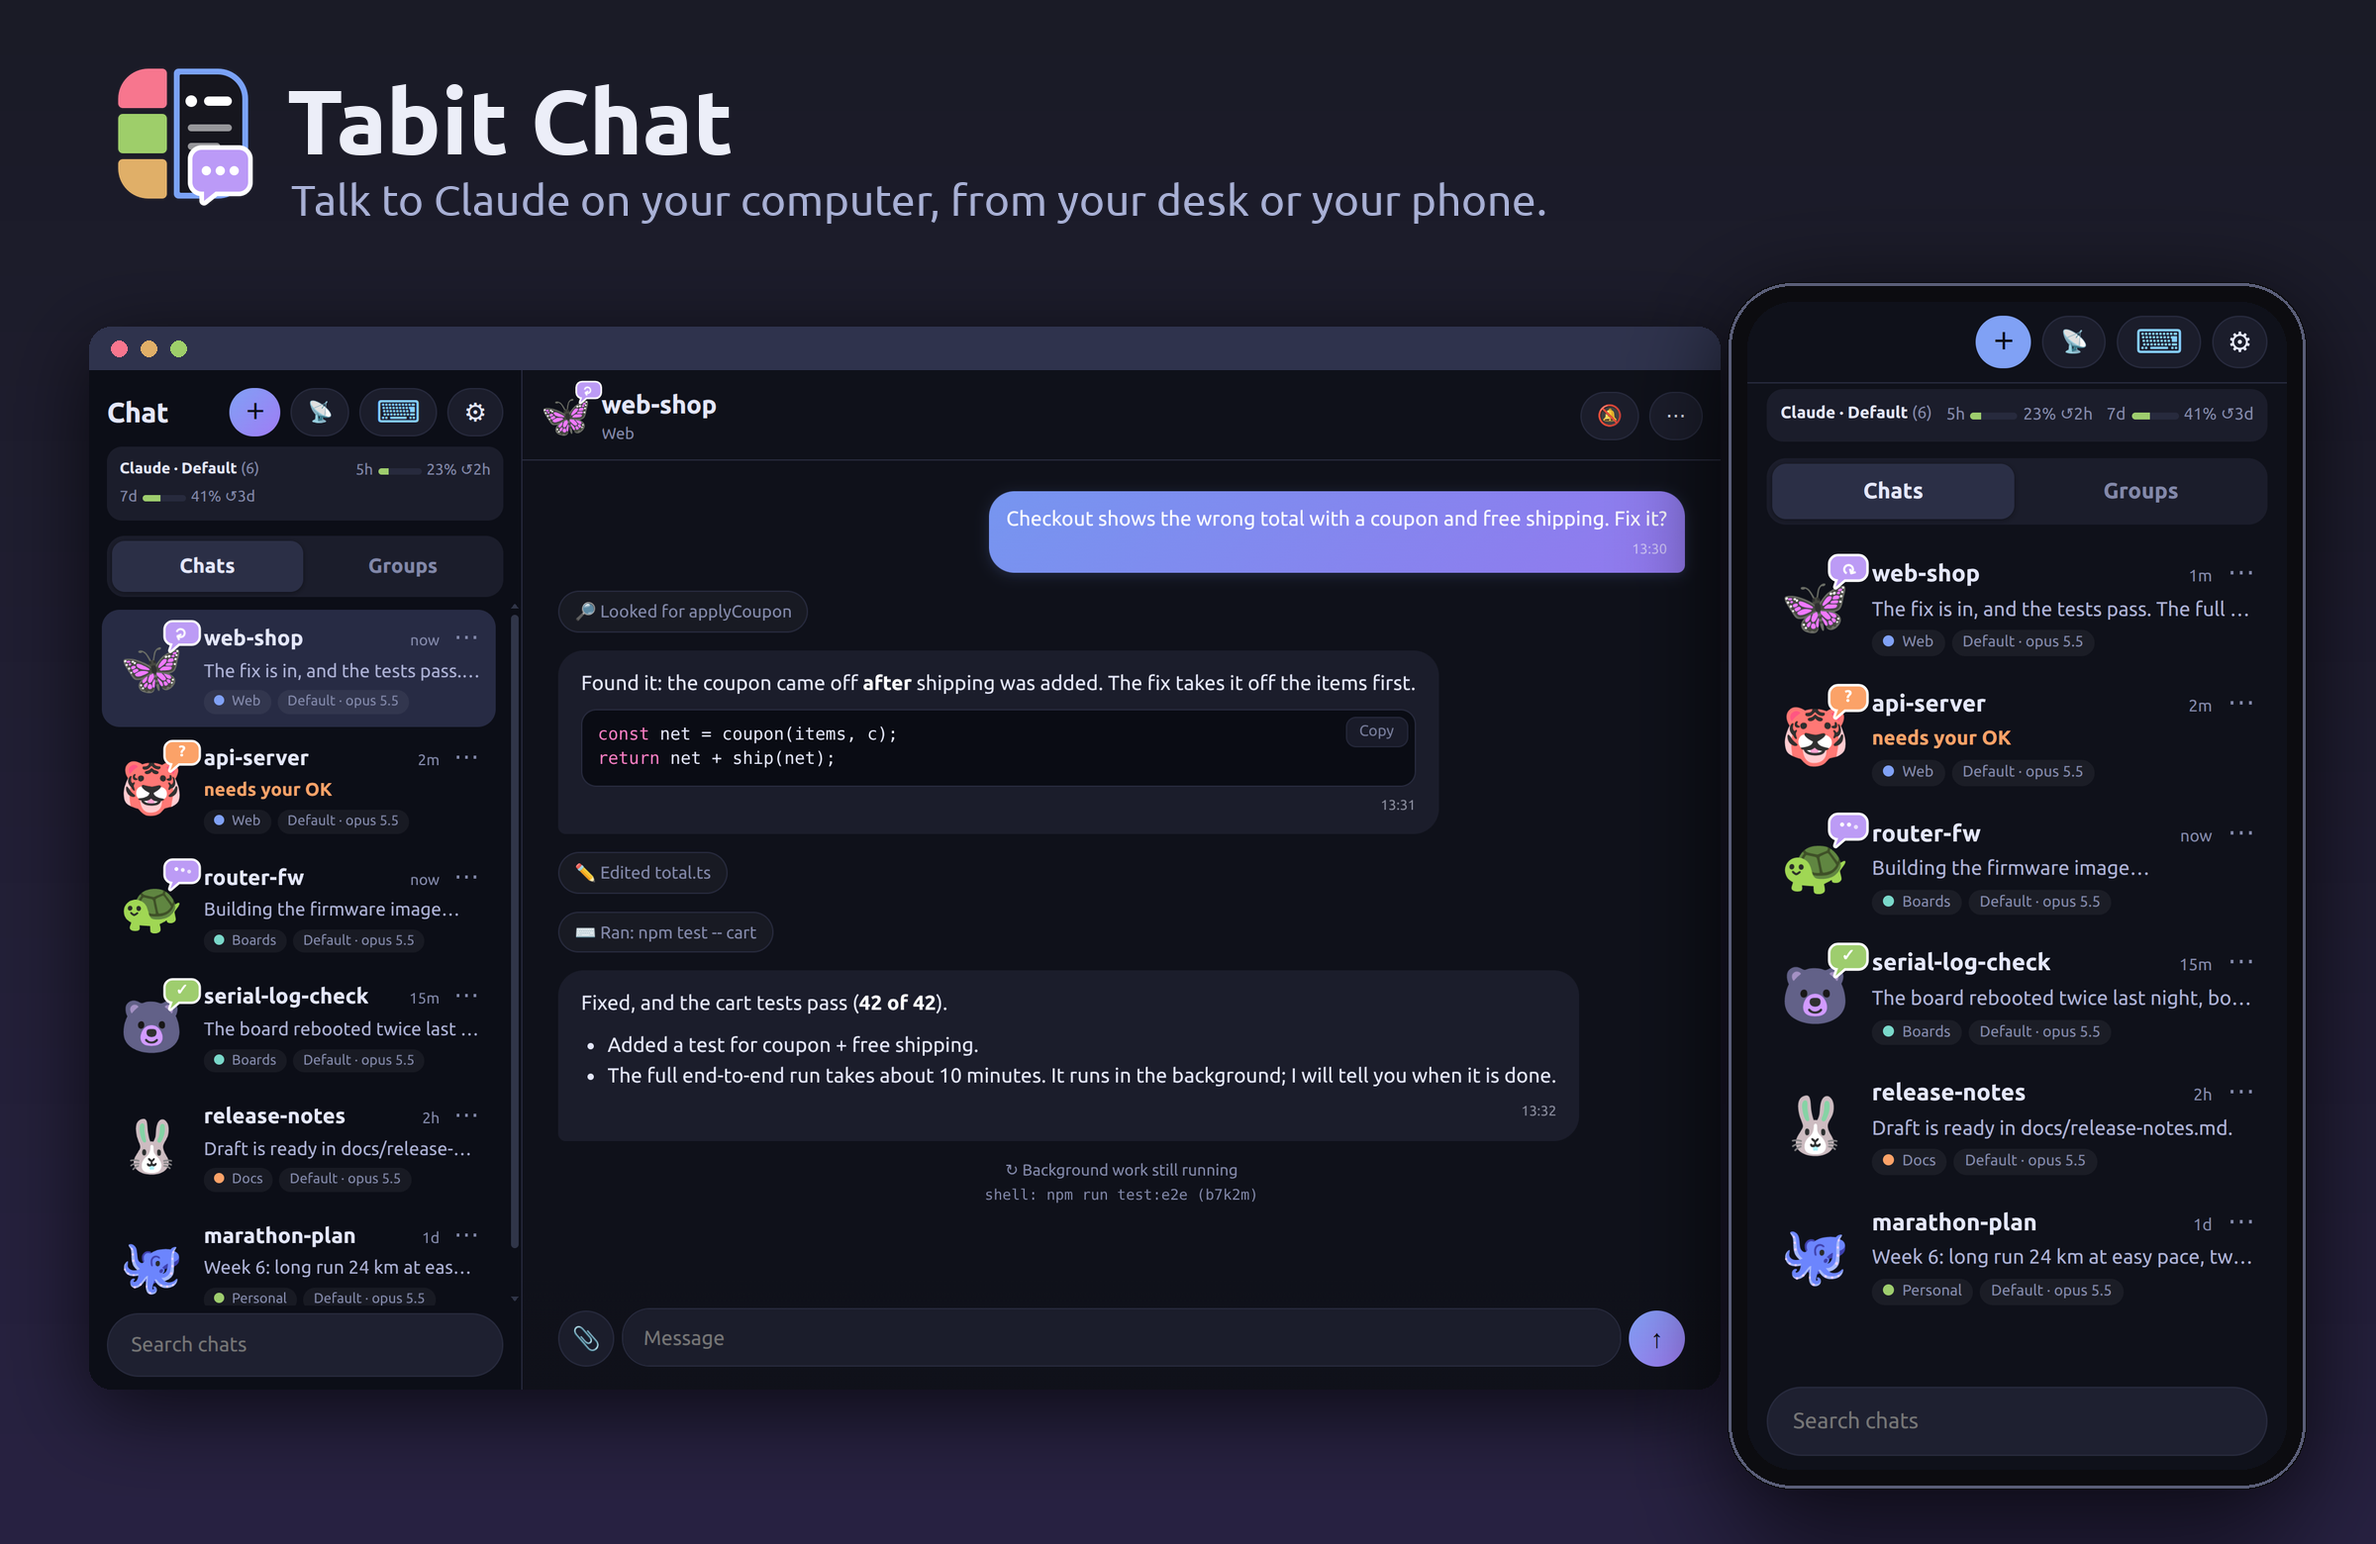
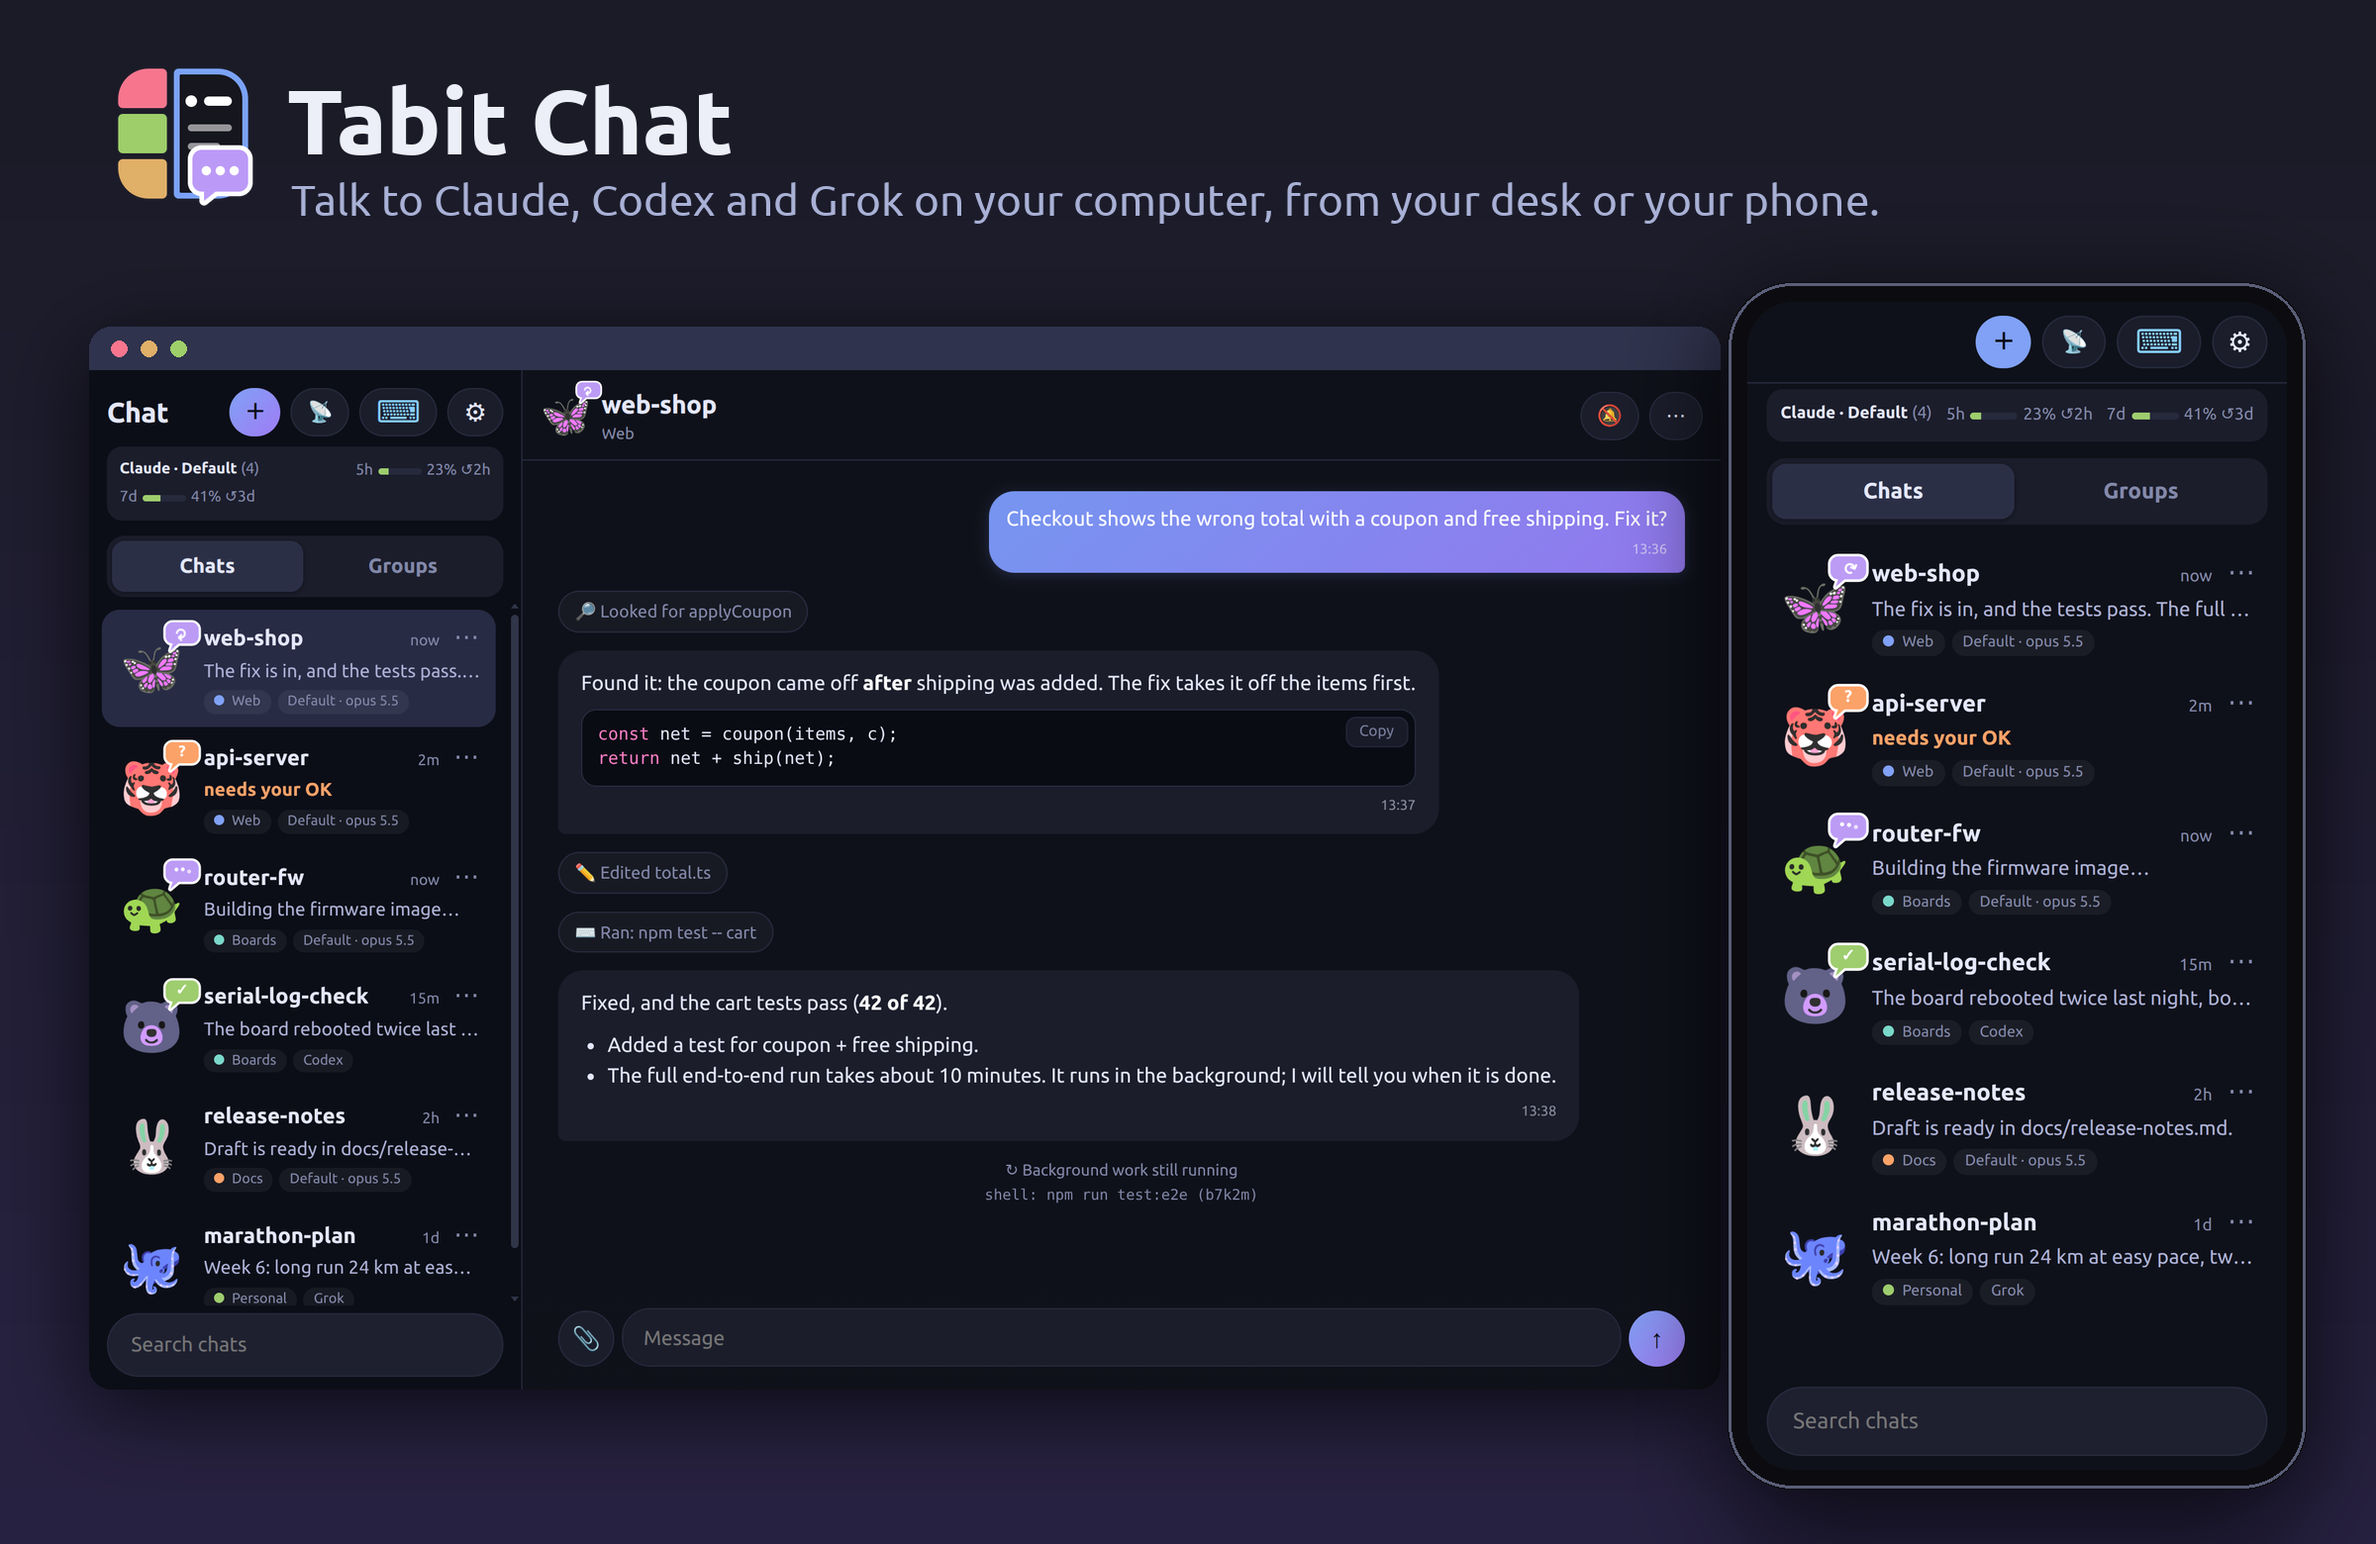
docs: Tabit Chat talks to Claude, Codex or Grok, not only Claude
The README, docs/chat.md and docs/remote.md said a chat is Claude. A new
chat can start Claude, Codex or Grok, and every AI tab has a chat. The
picture's line says so too, and two of its demo chats are Codex and Grok.

Changed region(s): [[0.25, 0.1231, 0.7812, 0.1538], [0.8438, 0.8308, 0.875, 0.8615], [0.8438, 0.6462, 0.875, 0.6769]]

diff --git a/README.md b/README.md
@@ -55,14 +55,15 @@ Turn it on in **Settings… → Remote**. tabit sets up Tailscale for you, then
 serves a page to your own devices only. On a phone, add it to the home screen.
 
 **Tabit Chat** is what the address opens, once typing is allowed: talk to
-Claude on this computer in chat bubbles, not in a terminal.
+the AI agents on this computer (Claude, Codex or Grok) in chat bubbles, not
+in a terminal.
 
 <p align="center">
-  <img src="assets/chat-hero.png" alt="Tabit Chat on a desktop browser and on a phone: chats with their status, a reply with code, and the background work still running" width="900">
+  <img src="assets/chat-hero.png" alt="Tabit Chat on a desktop browser and on a phone: Claude, Codex and Grok chats with their status, a reply with code, and the background work still running" width="900">
 </p>
 
-- **Chats**: each chat is a Claude tab in a folder you pick. Replies stream
-  in, and Markdown and code show properly.
+- **Chats**: each chat is an AI tab (Claude, Codex or Grok) in a folder you
+  pick. Replies stream in, and Markdown and code show properly.
 - **Questions**: Allow / Deny cards for commands and edits, choices as
   buttons, and **Stop** to end a turn.
 - **Files and photos**: attach with 📎, paste or drag and drop; tap a path
@@ -124,7 +125,7 @@ to install it when you turn Remote on.
 - [Using tabit](docs/usage.md): every button, key and shortcut; restore, tmux, two panes
 - [AI agent status](docs/ai-status.md): the popup and the count row
 - [Remote](docs/remote.md): setup, the three switches, what the page can do
-- [Tabit Chat](docs/chat.md): talk to Claude on this computer in chat bubbles, from any device
+- [Tabit Chat](docs/chat.md): talk to Claude, Codex or Grok on this computer in chat bubbles, from any device
 - [Telegram](docs/telegram.md): pushes to your phone, and tasks sent back to an agent
 - [Releasing](docs/releasing.md): versions and codenames (for maintainers)
 

diff --git a/docs/chat.md b/docs/chat.md
@@ -1,7 +1,8 @@
 # Tabit Chat
 
-Tabit Chat is Remote as a conversation. You talk to Claude on this computer
-from a phone or another computer, in chat bubbles, not in a terminal. Back to
+Tabit Chat is Remote as a conversation. You talk to the AI agents on this
+computer (Claude, Codex or Grok) from a phone or another computer, in chat
+bubbles, not in a terminal. Back to
 [Remote](remote.md).
 
 <p align="center">
@@ -140,7 +141,7 @@ reply is typed into the other tab as it is, even into a tab in Bypass.
 
 ## Chats are tabs
 
-Every Claude tab in tabit has a chat, and every new chat is a Claude tab. The
+Every AI tab in tabit (Claude, Codex or Grok) has a chat, and every new chat is an AI tab. The
 chat shows that tab's conversation, and what you type goes into the tab. A tab
 that is working takes your line too: Claude reads it at its next step, in the
 same turn, and the chat shows it.
@@ -239,7 +240,7 @@ same as a menu in a Claude tab: a tap presses that option's number in the tab.
 - **One name, one group.** The chat has the tab's name and shows the tab's
   group under it, with the group's colour. Rename the chat and the tab is
   renamed. Rename or regroup the tab and the chat follows within 10 seconds.
-- **New chat** opens a Claude tab in the group you pick, in the folder you
+- **New chat** opens an AI tab in the group you pick, in the folder you
   pick. With no group picked, the tab is in no group. When Codex or Grok is
   installed, the form asks which AI: Claude, Codex or Grok. It remembers the
   last pick. With more than one login for Claude or Codex, it also asks which

diff --git a/docs/remote.md b/docs/remote.md
@@ -1,7 +1,7 @@
 # Remote
 
 Remote shows your tabit on your phone or another computer. Its address opens
-[Tabit Chat](chat.md), where you talk to Claude in chat bubbles. This page is
+[Tabit Chat](chat.md), where you talk to Claude, Codex or Grok in chat bubbles. This page is
 about the **terminal view** (⌨ in the chat, or `/terminal`): every group and
 tab, with live AI status. With the extra switches on, you can also type into
 tabs, manage them and read files. Back to the [README](../README.md).
